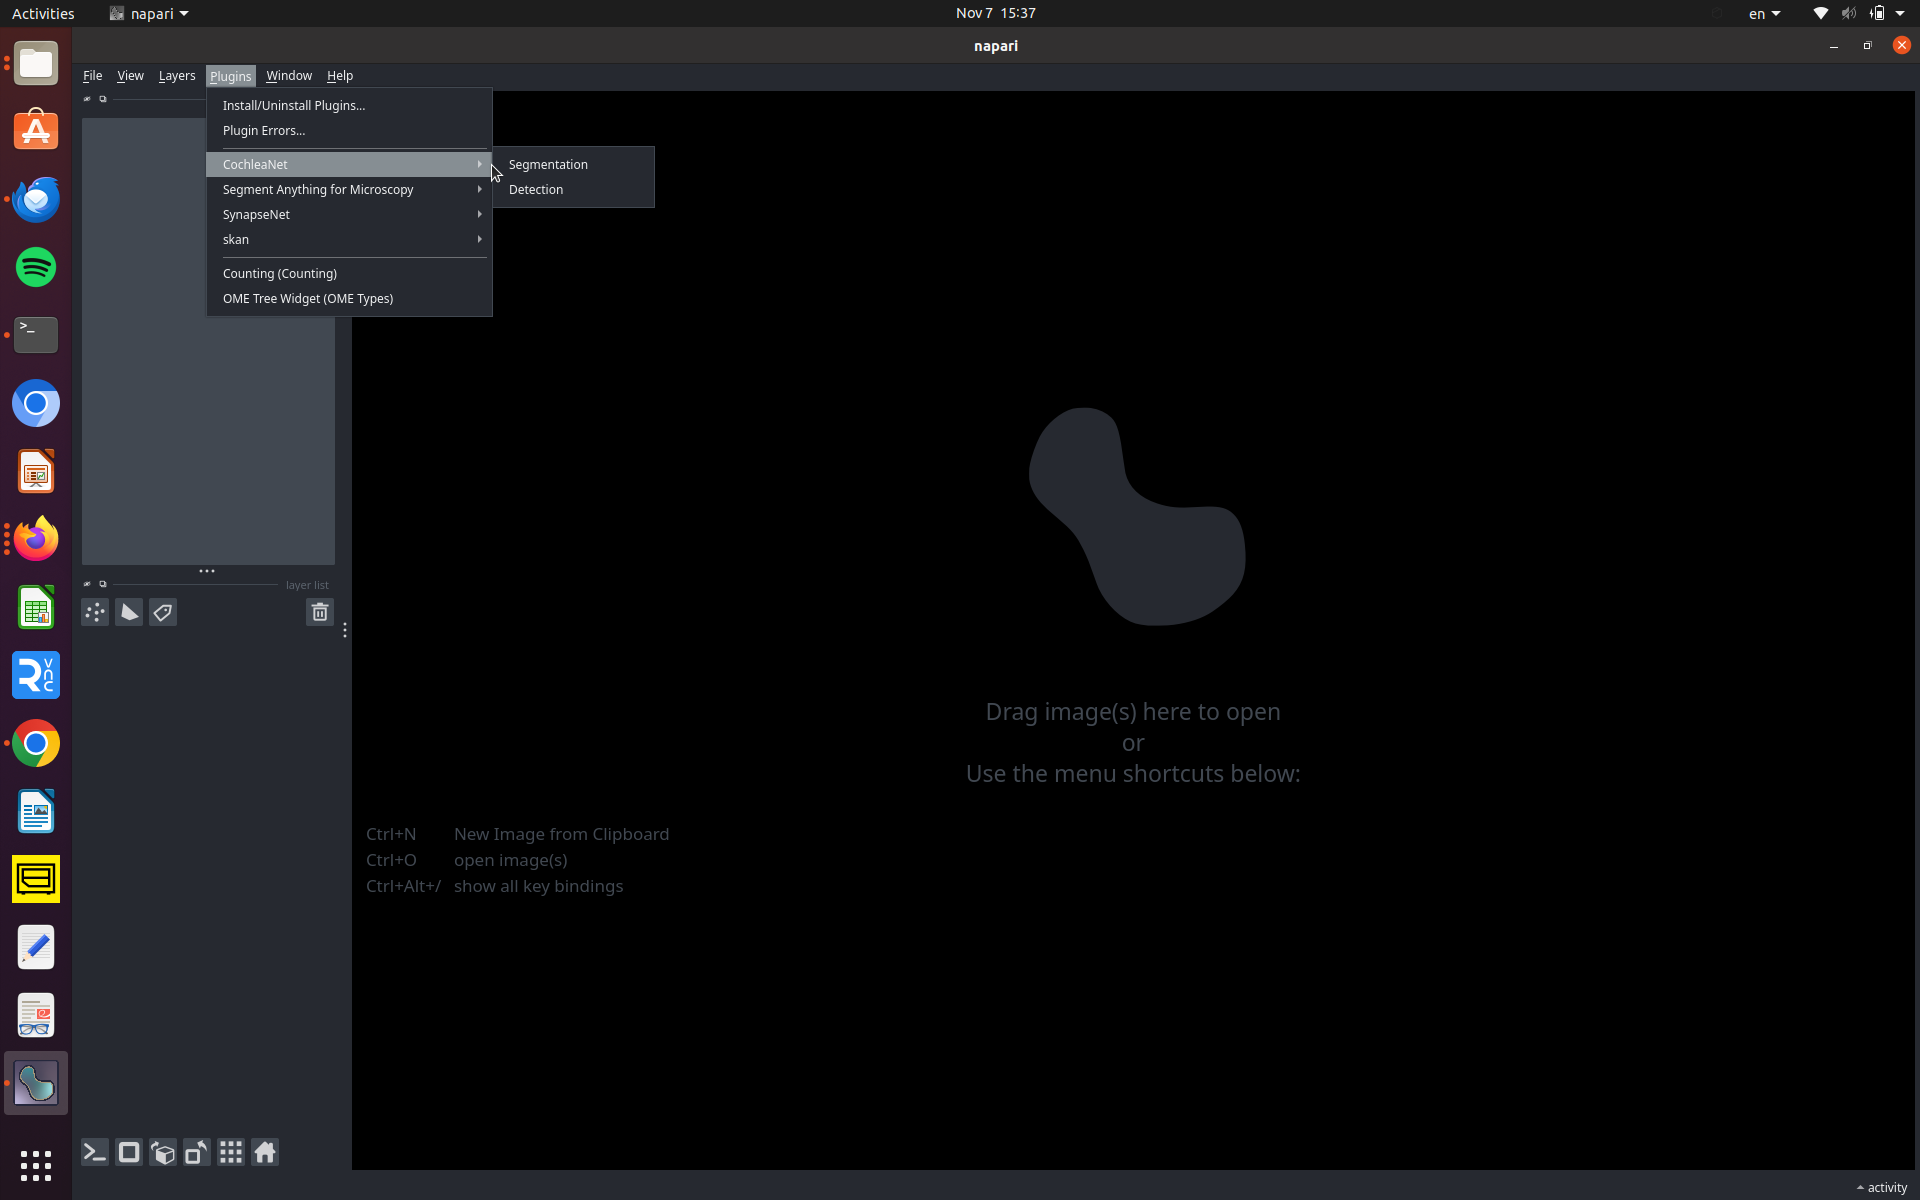
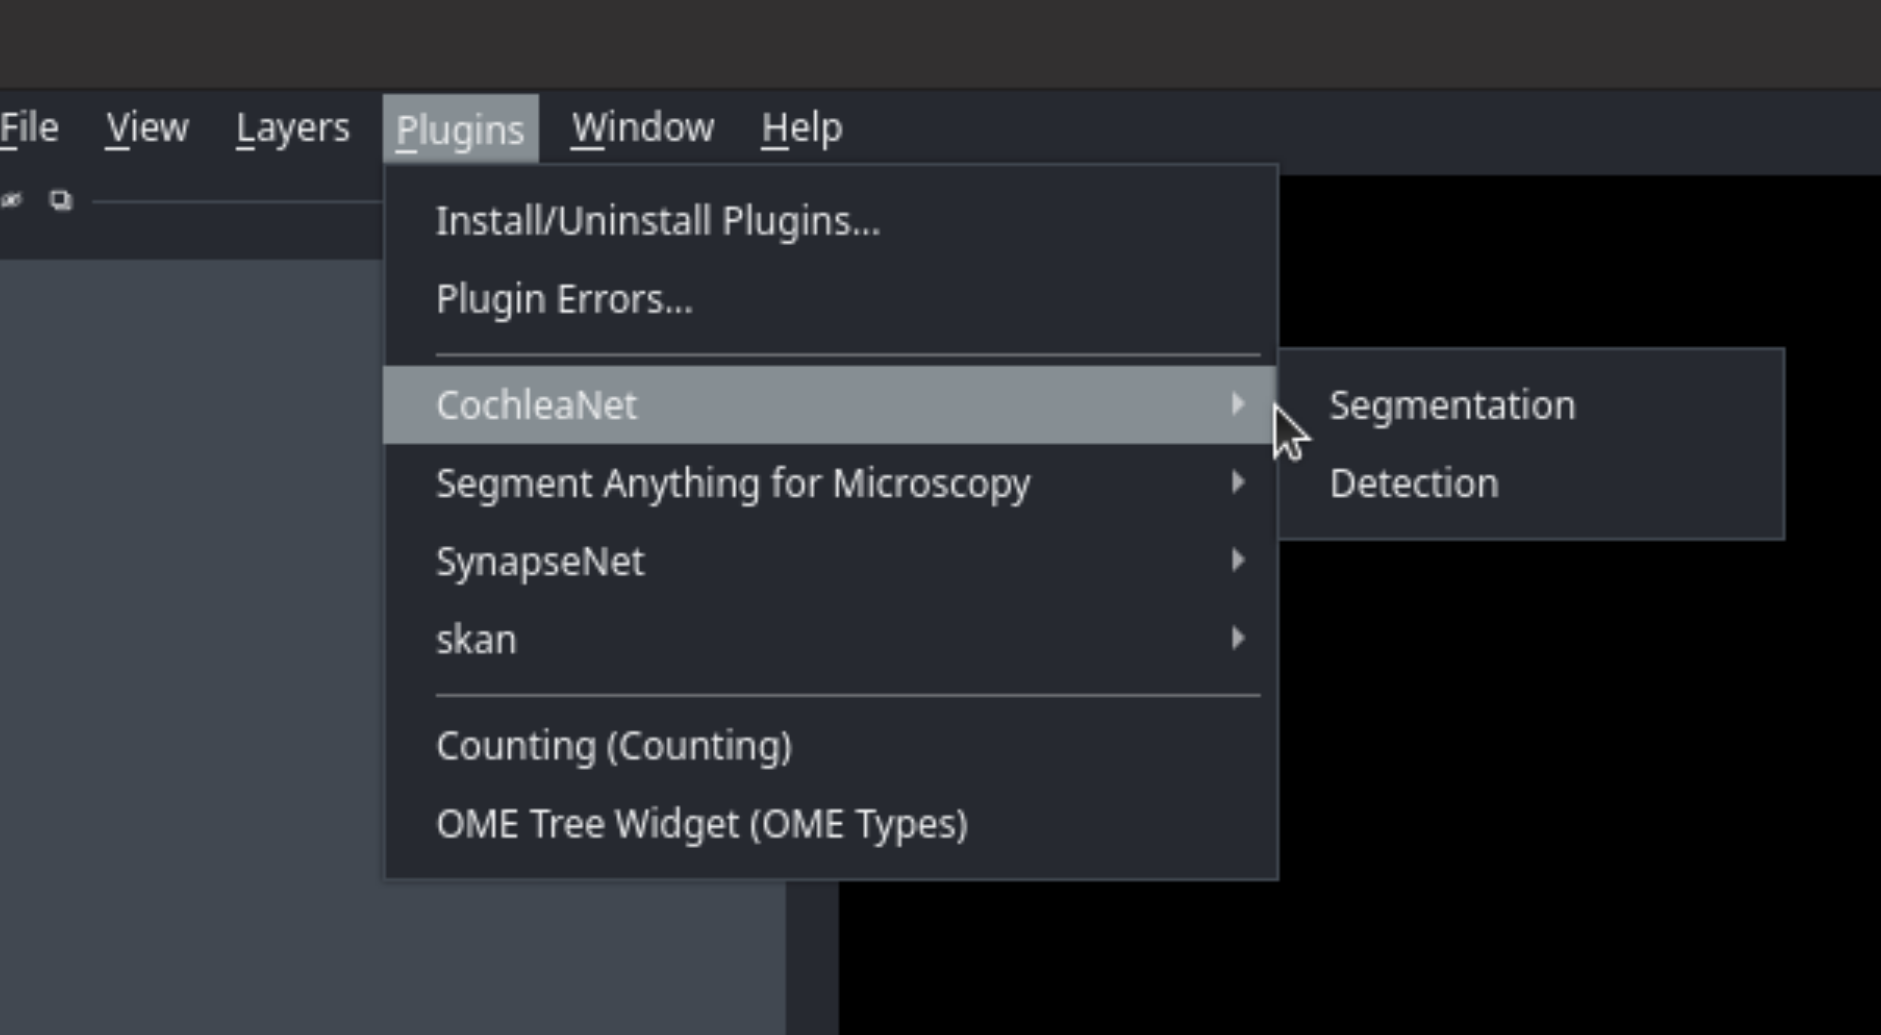
Update doc

diff --git a/doc/documentation.md b/doc/documentation.md
@@ -60,7 +60,7 @@ CochleaNet can be used via:
 ### Napari Plugin
 
 The plugins for segmentation (SGNs and IHCS) and detection (ribbon synapses) is available under `Plugins->CochleaNet->Segmentation/Detection` in napari:
-<img src="https://raw.githubusercontent.com/computational-cell-analytics/cochlea-net/refs/heads/master/doc/img/cochlea-net-plugin-selection.png" alt="The CochleaNet plugins available in napari.">
+<img src="https://raw.githubusercontent.com/computational-cell-analytics/cochlea-net/refs/heads/master/doc/img/cochlea-net-plugin-selection.png" alt="The CochleaNet plugins available in napari." width="256">
 
 
 The segmentation plugin offers the choice of different models under `Select Model:` (see [Available Models](#available-models) for details). `Image data` enables the choice which image data (napari layer) the model is applied to.
@@ -78,11 +78,13 @@ For more information on how to use napari, check out the tutorials at [www.napar
 
 The command line interface provides the following commands:
 
-`flamingo_tools.convert_data`: Convert data from a flamingo microscope into the [bdv.n5 format](https://github.com/bigdataviewer/bigdataviewer-core/blob/master/BDV%20N5%20format.md) (compatible with  [BigStitcher](https://imagej.net/plugins/bigstitcher/)) or into [ome.zarr format](https://ngff.openmicroscopy.org/). You can use this command as follows:
+`flamingo_tools.convert_data`: Convert data from a flamingo microscope. You can use this command as follows:
 ```bash
 flamingo_tools.convert_data -i /path/to/data -o /path/to/output.n5 --file_ext .tif
 ```
-Use `--file_ext .raw` instead if the data is stored in raw files. By default, the data will be exported to the n5 format. It can be opened with BigDataViewer via `Plugins->BigDataViewer->Open XML/HDF5` or with BigStitcher as described [here](https://imagej.net/plugins/bigstitcher/open-existing).
+Use `--file_ext .raw` if the data is stored in raw files. The the output data format is determined by the extension of the output path you specify (`-o`):
+- If you specify `.n5` the data will be exported to the [bdv.n5 format](https://github.com/bigdataviewer/bigdataviewer-core/blob/master/BDV%20N5%20format.md). It can be opened with BigDataViewer via `Plugins->BigDataViewer->Open XML/HDF5` or with [BigStitcher](https://imagej.net/plugins/bigstitcher/) as described [here](https://imagej.net/plugins/bigstitcher/open-existing).
+- If you specify `.ome.zarr` the data will be exported to the [ome.zarr format](https://ngff.openmicroscopy.org/).
 
 `flamingo_tools.run_segmentation`: To segment cells in volumetric light microscopy data.
 
@@ -93,10 +95,10 @@ For more information on any of the command run `flamingo_tools.<COMMAND> -h` (e.
 ### Python Library
 
 CochleaNet's functionality is implemented in the `flamingo_tools` python library. It implements:
-- `measurements`: functionality to measure morphological attributes and intensity statistics for segmented cells.
-- `mobie`: functionality to export flamingo image data or segmentation results to a MoBIE project.
-- `segmentation`: functionality to apply segmentation and detection models to large volumetric image data.
-- `training`: functionality to train segmentation and detection networks.
+- `flamingo_tools.measurements`: functionality to measure morphological attributes and intensity statistics for segmented cells.
+- `flamingo_tools.mobie`: functionality to export flamingo image data or segmentation results to a MoBIE project.
+- `flamingo_tools.segmentation`: functionality to apply segmentation and detection models to large volumetric image data.
+- `flamingo_tools.training`: functionality to train segmentation and detection networks.
 
 
 ## Available Models
